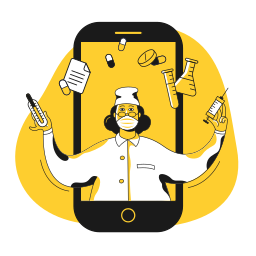
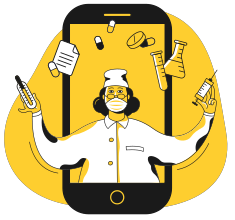
welcome screen updated

diff --git a/lib/src/features/screens/welcome/welcome_screen.dart b/lib/src/features/screens/welcome/welcome_screen.dart
@@ -1,6 +1,8 @@
 import 'package:flutter/material.dart';
 import 'package:flutter/src/widgets/framework.dart';
 import 'package:flutter/src/widgets/placeholder.dart';
+import 'package:rehabcentre/src/constants/colors.dart';
+import 'package:rehabcentre/src/constants/sizes.dart';
 import 'package:rehabcentre/src/constants/text_strings.dart';
 
 class WelcomeScreen extends StatelessWidget {
@@ -8,28 +10,61 @@ class WelcomeScreen extends StatelessWidget {
 
   @override
   Widget build(BuildContext context) {
+    var height = MediaQuery.of(context).size.height;
     return Scaffold(
       body: Container(
+        padding: const EdgeInsets.all(15),
         child: Column(
           mainAxisAlignment: MainAxisAlignment.spaceEvenly,
           children: [
-            Image(image: AssetImage('assets/images/welcome-screen-image.png'),),
+            Image(image: AssetImage('assets/images/welcome-screen-image.png'), height: height *0.5,),
             Column(
               children: [
-                Text(tWelcomeTitle),
-                Text(tWelcomeSubTitle),
+                Text(tWelcomeTitle, style: TextStyle(
+                  fontFamily: 'PoppinsBold',
+                  fontSize: 20,
+                ),),
+                SizedBox(
+                  height: 10,
+                ),
+                Text(tWelcomeSubTitle, textAlign: TextAlign.center,
+                style  : TextStyle(
+                  fontFamily: 'PoppinsMedium',
+                  fontSize: 16,
+  
+                ),),
               ],
             ),
             
             Row(
               children: [
-                OutlinedButton(
-                  onPressed: (){}, 
-                  child: Text('Login'),
-                  ),
-                  ElevatedButton(
-                  onPressed: (){}, 
-                  child: Text('Signup'),
+                Expanded(
+                  child: OutlinedButton(
+                    onPressed: (){}, 
+                    style: OutlinedButton.styleFrom(
+                      shape: RoundedRectangleBorder(),
+                      foregroundColor: tSecondaryColor,
+                      side: BorderSide(color: tSecondaryColor),
+                      padding: EdgeInsets.symmetric(vertical: tButtonHeight)
+                    ),
+                    child: Text('Login'.toUpperCase()),
+                    ),
+                ),
+                SizedBox(
+                 width: 10.0,
+                ),
+                  Expanded(
+                    child: ElevatedButton(
+                    onPressed: (){}, 
+                    style: OutlinedButton.styleFrom(
+                      shape: RoundedRectangleBorder(),
+                      foregroundColor: tWhiteColor,
+                      backgroundColor: tSecondaryColor,
+                      side: BorderSide(color: tSecondaryColor),
+                      padding: EdgeInsets.symmetric(vertical: tButtonHeight)
+                    ),
+                    child: Text('Signup'.toUpperCase()),
+                    ),
                   ),
                   
               ],

diff --git a/lib/src/constants/text_strings.dart b/lib/src/constants/text_strings.dart
@@ -1,5 +1,5 @@
 const String tAppName = "Aashayein.";
 const String tAppTagline = "A place to find healing.";
 
-const String tWelcomeTitle = "Appointments on your fingertips";
-const String tWelcomeSubTitle = "Book appointments at your nearest rehabilitation centre in few clicks";
+const String tWelcomeTitle = "Appointments ?";
+const String tWelcomeSubTitle = "Book appointments at your nearest \n rehabilitation centre in few clicks";
